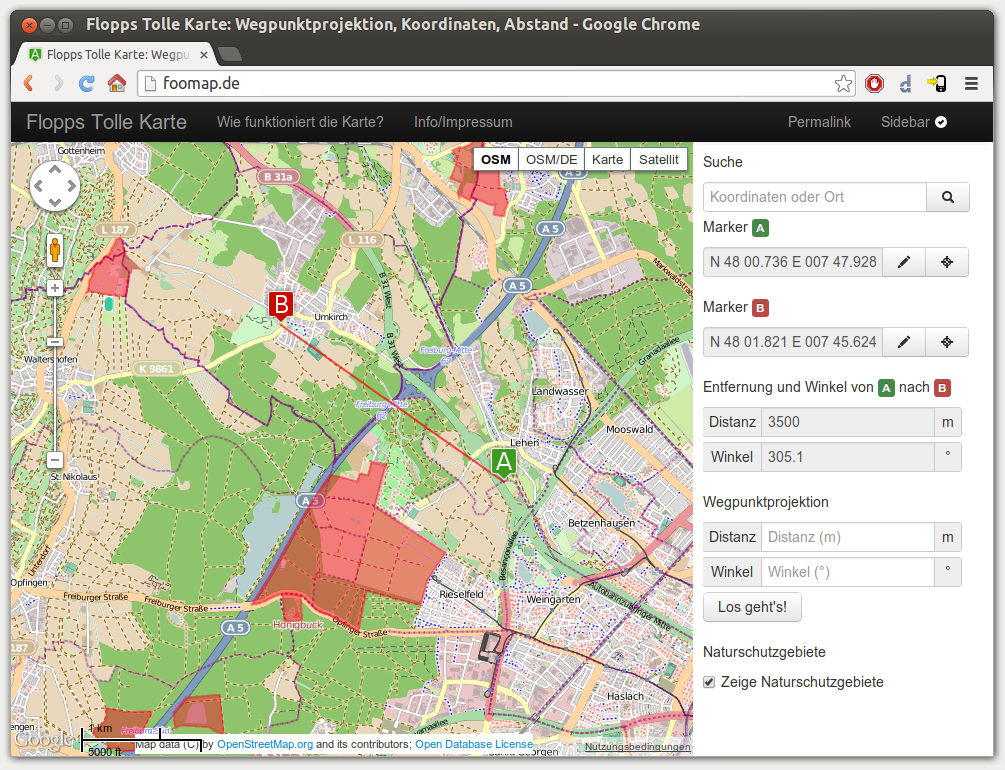
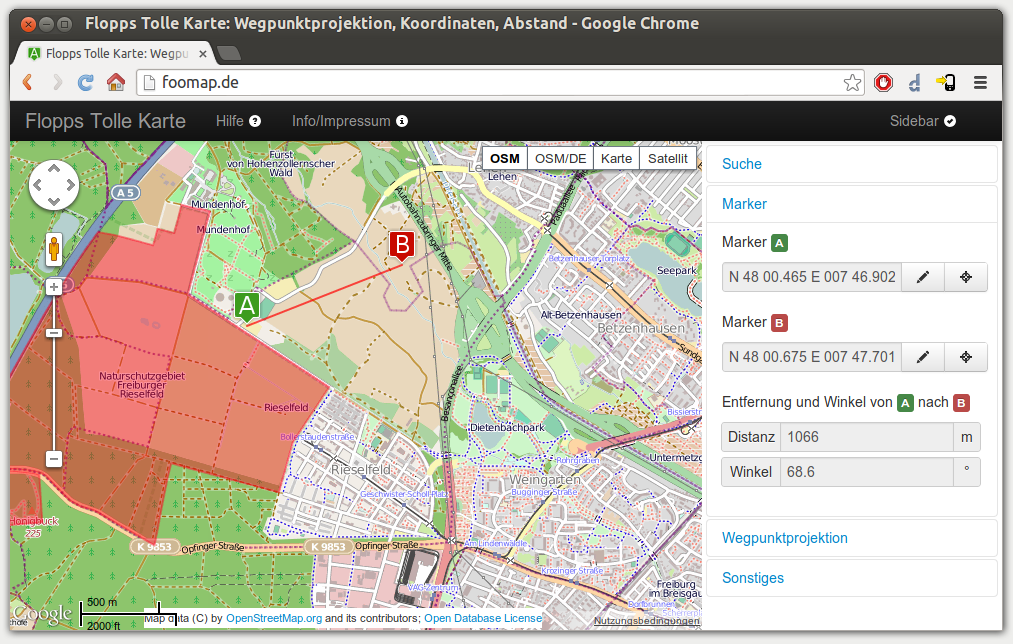
Interface update

diff --git a/index.php b/index.php
@@ -218,8 +218,8 @@ else
         <div class="container-fluid">
             <ul class="nav">
                 <li><a role="button" class="brand" href="javascript:">Flopps Tolle Karte</a></li>
-                <li><a role="button" href="#hilfeDialog" data-toggle="modal">Wie funktioniert die Karte?</a></li>
-                <li><a role="button" href="#kontaktDialog" data-toggle="modal">Info/Impressum</a></li>
+                <li><a role="button" href="#hilfeDialog" data-toggle="modal">Hilfe <i class="icon-question-sign icon-white"></i></a></li>
+                <li><a role="button" href="#kontaktDialog" data-toggle="modal">Info/Impressum <i class="icon-info-sign icon-white"></i></a></li>
             </ul>
             <div class="pull-right">
                 <ul class="nav">
